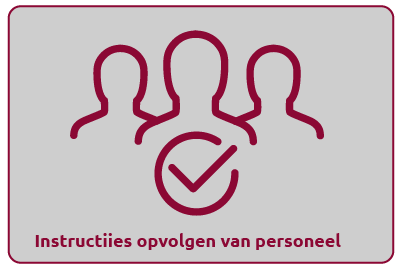
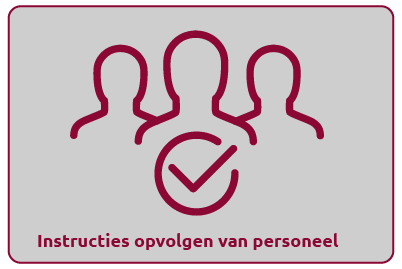
Foutjes uit de icoontjes leefregels gehaald

Changed region(s): [[0.0896, 0.8625, 0.8657, 0.9517]]

diff --git a/proposal1/leefregels.html b/proposal1/leefregels.html
@@ -1,23 +1,21 @@
 <!DOCTYPE html>
 <html lang="nl">
-	<head>
-		<meta charset="UTF-8" />
-		<meta name="viewport" content="width=device-width, initial-scale=1.0" />
-		<title>Welkom bij GO! Atheneum Emanuel Hiel | GO! KA Hiel</title>
-		<link rel="stylesheet" href="css/normalize.css" />
-		<link rel="stylesheet" href="css/base-layout.css" />
-		<link rel="stylesheet" href="css/nav.css" />
-		<link rel="stylesheet" href="css/typo.css" />
-		<link rel="stylesheet" href="css/buttons.css" />
-		<link
-			rel="stylesheet"
-			href="https://cdnjs.cloudflare.com/ajax/libs/font-awesome/4.7.0/css/font-awesome.min.css"
-		/>
-	</head>
 
-	<body>
-		<div class="wrapper">
-			<!--<div id="grid">
+<head>
+	<meta charset="UTF-8" />
+	<meta name="viewport" content="width=device-width, initial-scale=1.0" />
+	<title>Welkom bij GO! Atheneum Emanuel Hiel | GO! KA Hiel</title>
+	<link rel="stylesheet" href="css/normalize.css" />
+	<link rel="stylesheet" href="css/base-layout.css" />
+	<link rel="stylesheet" href="css/nav.css" />
+	<link rel="stylesheet" href="css/typo.css" />
+	<link rel="stylesheet" href="css/buttons.css" />
+	<link rel="stylesheet" href="https://cdnjs.cloudflare.com/ajax/libs/font-awesome/4.7.0/css/font-awesome.min.css" />
+</head>
+
+<body>
+	<div class="wrapper">
+		<!--<div id="grid">
             <p></p>
             <p></p>
             <p></p>
@@ -32,112 +30,102 @@
             <p></p>
         </div> -->
 
-			<header>
-				<div class="topnav" id="myTopnav">
-					<a href="index.html">Home</a>
+		<header>
+			<div class="topnav" id="myTopnav">
+				<a href="index.html">Home</a>
 
-					<div class="dropdown">
-						<button class="dropbtn">
-							<!-- gebruik class dropbtn-active als dit de pagina is-->
-							Wie zijn we?
-							<i class="fa fa-caret-down"></i>
-						</button>
-						<div class="dropdown-content">
-							<a href="wie-is-wie.html">Wie-is-wie</a>
-							<a href="richtingen.html">Welke richtingen bieden we aan?</a>
-							<a href="GO.html">Het GO!</a>
-							<a href="schoolreglement.html">Schoolreglement</a>
-							<a href="leefregels.html" class="active"
-								>Leefregels
-								<!--via iconografie--></a
-							>
-						</div>
+				<div class="dropdown">
+					<button class="dropbtn">
+						<!-- gebruik class dropbtn-active als dit de pagina is-->
+						Wie zijn we?
+						<i class="fa fa-caret-down"></i>
+					</button>
+					<div class="dropdown-content">
+						<a href="wie-is-wie.html">Wie-is-wie</a>
+						<a href="richtingen.html">Welke richtingen bieden we aan?</a>
+						<a href="GO.html">Het GO!</a>
+						<a href="schoolreglement.html">Schoolreglement</a>
+						<a href="leefregels.html" class="active">Leefregels
+							<!--via iconografie--></a>
 					</div>
-					<div class="dropdown">
-						<button class="dropbtn">
-							Kiezen voor Hiel
-							<i class="fa fa-caret-down"></i>
-						</button>
-						<div class="dropdown-content">
-							<a href="basispijlers.html">Basispijlers</a>
-							<a href="maximumfactuur.html">Maximumfactuur</a>
-							<a href="infrastructuur.html">Infrastructuur</a>
-							<a href="humaniora.html">Humaniora</a>
-						</div>
-					</div>
-					<a href="socials.html">Hiel op pad</a>
-					<a href="inschrijvingen.html">Inschrijvingen</a>
-					<a href="contact.html">Contact</a>
-					<a
-						href="javascript:void(0)"
-						;
-						style="font-size: 15px"
-						;
-						class="icon"
-						;
-						onclick="myFunction()"
-						>&#9776;</a
-					>
 				</div>
-			</header>
+				<div class="dropdown">
+					<button class="dropbtn">
+						Kiezen voor Hiel
+						<i class="fa fa-caret-down"></i>
+					</button>
+					<div class="dropdown-content">
+						<a href="basispijlers.html">Basispijlers</a>
+						<a href="maximumfactuur.html">Maximumfactuur</a>
+						<a href="infrastructuur.html">Infrastructuur</a>
+						<a href="humaniora.html">Humaniora</a>
+					</div>
+				</div>
+				<a href="socials.html">Hiel op pad</a>
+				<a href="inschrijvingen.html">Inschrijvingen</a>
+				<a href="contact.html">Contact</a>
+				<a href="javascript:void(0)" ; style="font-size: 15px" ; class="icon" ;
+					onclick="myFunction()">&#9776;</a>
+			</div>
+		</header>
 
-			<div class="hero">
-				<img src="images/logo.png" />
-				<h1>Leefregels</h1>
-				<p class="uitgelicht">
-					Lorem ipsum dolor sit amet, consectetur adipiscing elit. Mauris id
-					cursus ante, id vulputate magna. Nulla facilisi. Proin id venenatis
-					erat. Etiam tempus ornare diam quis facilisis. Maecenas vestibulum in
-					nisi nec finibus. Ut id tempus turpis. Quisque ultricies vehicula
-					tortor, at tempor purus ultrices sed. Ut a nisi eu erat blandit
-					molestie imperdiet sit amet felis. Pellentesque lacus elit, sodales
-					sit amet facilisis a, tempor in nulla. Curabitur ac feugiat nibh,
-					mattis sagittis quam. Nunc accumsan risus est, id vulputate nisl
-					scelerisque et. Vestibulum erat dolor, dictum vitae ultricies in,
-					convallis nec tortor. Vestibulum tincidunt, mi vel lacinia sodales.
-				</p>
-			</div>
+		<div class="hero">
+			<img src="images/logo.png" />
+			<h1>Leefregels</h1>
+			<p class="uitgelicht">
+				Lorem ipsum dolor sit amet, consectetur adipiscing elit. Mauris id
+				cursus ante, id vulputate magna. Nulla facilisi. Proin id venenatis
+				erat. Etiam tempus ornare diam quis facilisis. Maecenas vestibulum in
+				nisi nec finibus. Ut id tempus turpis. Quisque ultricies vehicula
+				tortor, at tempor purus ultrices sed. Ut a nisi eu erat blandit
+				molestie imperdiet sit amet felis. Pellentesque lacus elit, sodales
+				sit amet facilisis a, tempor in nulla. Curabitur ac feugiat nibh,
+				mattis sagittis quam. Nunc accumsan risus est, id vulputate nisl
+				scelerisque et. Vestibulum erat dolor, dictum vitae ultricies in,
+				convallis nec tortor. Vestibulum tincidunt, mi vel lacinia sodales.
+			</p>
+		</div>
 
-			<div class="hero-image">
-				<img src="images/grote_afbeelding.png" />
-			</div>
-			<div class="leefregelsColumn1">
-				<img src="images/Nederlands_spreken_rood.png" />
-				Nederlands spreken in het schoolgebouw
-			</div>
-			<div class="leefregelsColumn2">
-				<img src="images/Respectvol_elkaar_grijs.png" />
-				Beleefde en respectvolle omgang met elkaar en het personeel
-			</div>
-			<div class="leefregelsColumn3">
-				<!--<img src="images/Respectvol_elkaar_rood.png" />-->
-				Respectvolle omgang met materiaal / gebouw / werkomgeving
-			</div>
-			<div class="leefregelsColumn4">
-				<!--<img src="images/Nederlands_spreken_rood.png" />-->
-				Geen gsm-gebruik in de klas
-			</div>
-			<div class="leefregelsColumn5">
-				<img src="images/Instructies_opvolgen_grijs.png" />
-				Instructies van het personeel vlot opvolgen
-			</div>
-			<div class="leefregelsColumn6">
-				<img src="images/In_orde_rood.png" />
-				In orde zijn met materiaal
-			</div>
-			<div class="leefregelsColumn7">
-				<!--<img src="" />-->
-				Geen hoofddeksels / trainingsbroeken in het schoolgebouw
-			</div>
-			<div class="leefregelsColumn8">
-				<img src="images/Op_tijd_grijs.png" />
-				Op tijd zijn in de les
-			</div>
-			<div class="leefregelsColumn9">
-				<img src="images/Onderwijskansen_belemmeren_rood.png" />
-				Onderwijskansen van zichzelf en anderen niet belemmeren
-			</div>
-			<!--<div class="imageblock1">
+		<div class="hero-image">
+			<img src="images/grote_afbeelding.png" />
+		</div>
+		<div class="leefregelsColumn1">
+			<img src="images/Nederlands_spreken_rood.png" />
+			Nederlands spreken in het schoolgebouw
+		</div>
+		<div class="leefregelsColumn2">
+			<img src="images/Respectvol_elkaar_grijs.png" />
+			Beleefde en respectvolle omgang met elkaar en het personeel
+		</div>
+		<div class="leefregelsColumn3">
+			<!--<img src="images/Respectvol_elkaar_rood.png" />-->
+			Respectvolle omgang met materiaal / gebouw / werkomgeving
+		</div>
+		<div class="leefregelsColumn4">
+			<!--<img src="images/Nederlands_spreken_rood.png" />-->
+			Geen gsm-gebruik in de klas
+		</div>
+		<div class="leefregelsColumn5">
+			<img src="images/Instructies_opvolgen_grijs.png" />
+			Instructies van het personeel vlot opvolgen
+		</div>
+		<div class="leefregelsColumn6">
+			<img src="images/In_orde_rood.png" />
+			In orde zijn met materiaal
+		</div>
+		<div class="leefregelsColumn7">
+			<!--<img src="" />-->
+			Geen hoofddeksels / trainingsbroeken in het schoolgebouw
+		</div>
+		<div class="leefregelsColumn8">
+			<img src="images/Op_tijd_grijs.png" />
+			Op tijd zijn in de les
+		</div>
+		<div class="leefregelsColumn9">
+			<img src="images/Onderwijskansen_belemmeren_rood.png" />
+			Onderwijskansen van zichzelf en anderen niet belemmeren
+		</div>
+		<!--<div class="imageblock1">
 			<h2>Voorbeeld imageblok</h2>
 		</div>
 		<div class="threeColumn1">
@@ -164,30 +152,31 @@
 				quidem praesentium.
 			</p>
 		</div>-->
-			<footer>
-				<img class="footer-icon" src="images/locatie.png" />
-				<div class="footer-info">
-					<h3>GO! KA Hiel</h3>
+		<footer>
+			<img class="footer-icon" src="images/locatie.png" />
+			<div class="footer-info">
+				<h3>GO! KA Hiel</h3>
 
-					<p>Charles Gilisquetlaan 34</p>
-					<p>1030 Brussel</p>
-					<p>02 241 31 08</p>
-					<p><a href="mailto:info@kahiel.be">info@kahiel.be</a></p>
-				</div>
-				<img src="images/driehoek_lijnen.png" class="footer-image" />
-			</footer>
-		</div>
-		<!--wrapper-->
+				<p>Charles Gilisquetlaan 34</p>
+				<p>1030 Brussel</p>
+				<p>02 241 31 08</p>
+				<p><a href="mailto:info@kahiel.be">info@kahiel.be</a></p>
+			</div>
+			<img src="images/driehoek_lijnen.png" class="footer-image" />
+		</footer>
+	</div>
+	<!--wrapper-->
 
-		<script>
-			function myFunction() {
-				var x = document.getElementById("myTopnav");
-				if (x.className === "topnav") {
-					x.className += " responsive";
-				} else {
-					x.className = "topnav";
-				}
+	<script>
+		function myFunction() {
+			var x = document.getElementById("myTopnav");
+			if (x.className === "topnav") {
+				x.className += " responsive";
+			} else {
+				x.className = "topnav";
 			}
-		</script>
-	</body>
+		}
+	</script>
+</body>
+
 </html>
